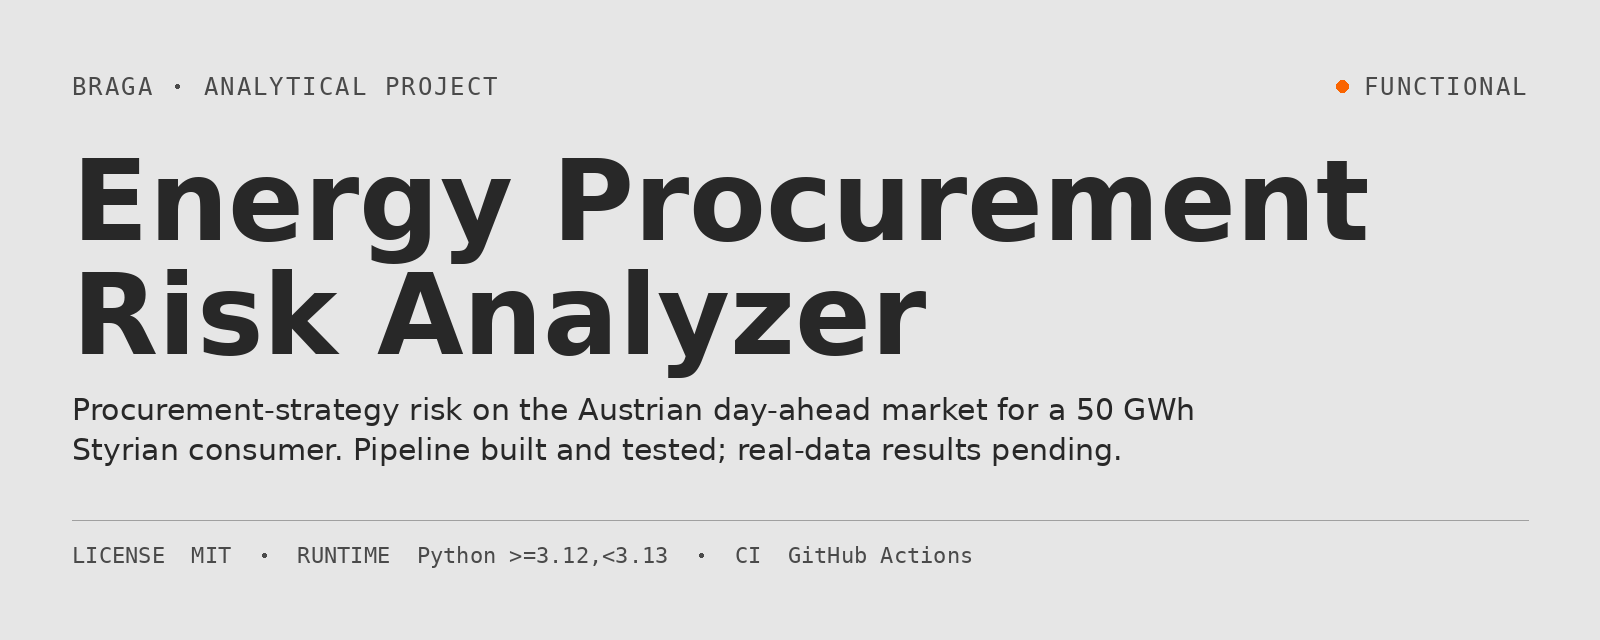
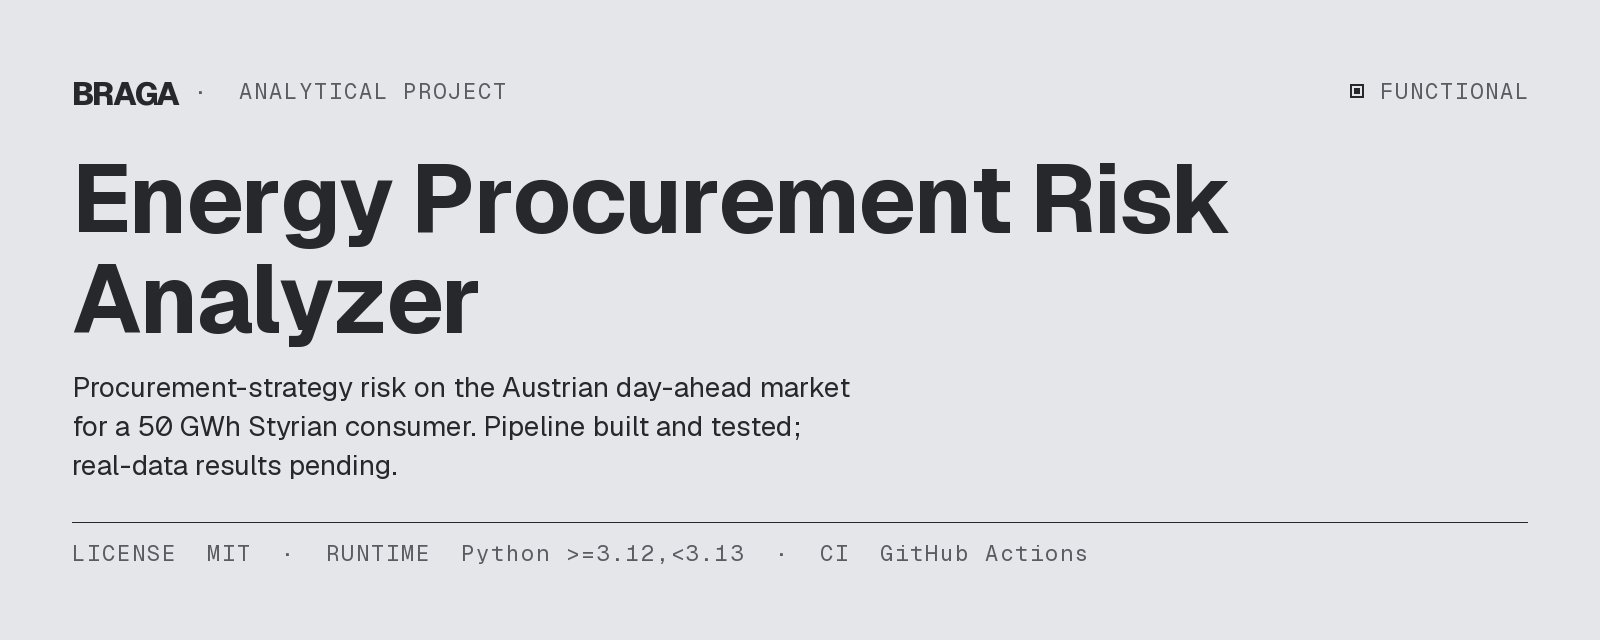
README on the Braga design system v2.1
Banner regenerated on design system v2.1 (BKribitz, status square, no
accent; D-051), shields badges in the neutrals (D-054), Mermaid diagrams
on the site's theme (D-052). Applied by braga-portfolio-docs
`python -m readme_quality fix`; the graph and the prose are unchanged.

Claude-Session: https://claude.ai/code/session_017JXfGqfFadubVauUqq2nZv

diff --git a/README.md b/README.md
@@ -3,9 +3,9 @@
 ![Energy Procurement Risk Analyzer: procurement-strategy risk on the Austrian day-ahead market for a 50 GWh Styrian consumer. Pipeline built and tested; real-data results pending.](docs/assets/hero.png)
 
 [![CI](https://github.com/RafaelBraga-Kribitz/energy-procurement-risk-analyzer/actions/workflows/ci.yml/badge.svg)](https://github.com/RafaelBraga-Kribitz/energy-procurement-risk-analyzer/actions/workflows/ci.yml)
-[![Python 3.12](https://img.shields.io/badge/python-3.12-blue.svg)](https://www.python.org/downloads/release/python-3120/)
-[![License: MIT](https://img.shields.io/badge/license-MIT-green.svg)](LICENSE)
-[![Status: pipeline complete, real data pending](https://img.shields.io/badge/status-pipeline%20complete%20%C2%B7%20real%20data%20pending-yellow)](#project-status)
+[![Python 3.12](https://img.shields.io/badge/python-3.12-5A5C61?labelColor=26282C)](https://www.python.org/downloads/release/python-3120/)
+[![License: MIT](https://img.shields.io/badge/license-MIT-5A5C61?labelColor=26282C)](LICENSE)
+[![Status: pipeline complete, real data pending](https://img.shields.io/badge/status-pipeline%20complete%20%C2%B7%20real%20data%20pending-5A5C61?labelColor=26282C)](#project-status)
 
 **Status:** Functional · pipeline complete and tested; real-data run pending
 
@@ -180,6 +180,33 @@ in euros, for the reference consumer, not for any real company.
 ## Architecture
 
 ```mermaid
+%%{init: {
+  "theme": "base",
+  "fontFamily": "BKribitz, system-ui, -apple-system, Segoe UI, Helvetica, Arial, sans-serif",
+  "themeVariables": {
+    "background": "#E4E6EA",
+    "primaryColor": "#DCDEE2",
+    "primaryTextColor": "#26282C",
+    "primaryBorderColor": "#26282C",
+    "secondaryColor": "#E4E6EA",
+    "secondaryTextColor": "#26282C",
+    "secondaryBorderColor": "#5A5C61",
+    "tertiaryColor": "#E4E6EA",
+    "tertiaryTextColor": "#26282C",
+    "tertiaryBorderColor": "#C2C4CA",
+    "lineColor": "#5A5C61",
+    "textColor": "#26282C",
+    "mainBkg": "#DCDEE2",
+    "nodeBorder": "#26282C",
+    "clusterBkg": "#E4E6EA",
+    "clusterBorder": "#C2C4CA",
+    "edgeLabelBackground": "#E4E6EA",
+    "titleColor": "#26282C",
+    "fontFamily": "BKribitz, system-ui, -apple-system, Segoe UI, Helvetica, Arial, sans-serif",
+    "fontSize": "14px"
+  },
+  "flowchart": { "curve": "linear", "htmlLabels": true, "padding": 8 }
+}}%%
 flowchart TD
     SRC["ENTSO-E / GeoSphere / ÖSPI / holidays"] --> ING["Ingestion<br/>retry, cache, gates"]
     ING --> RAW["data/raw parquet"]
